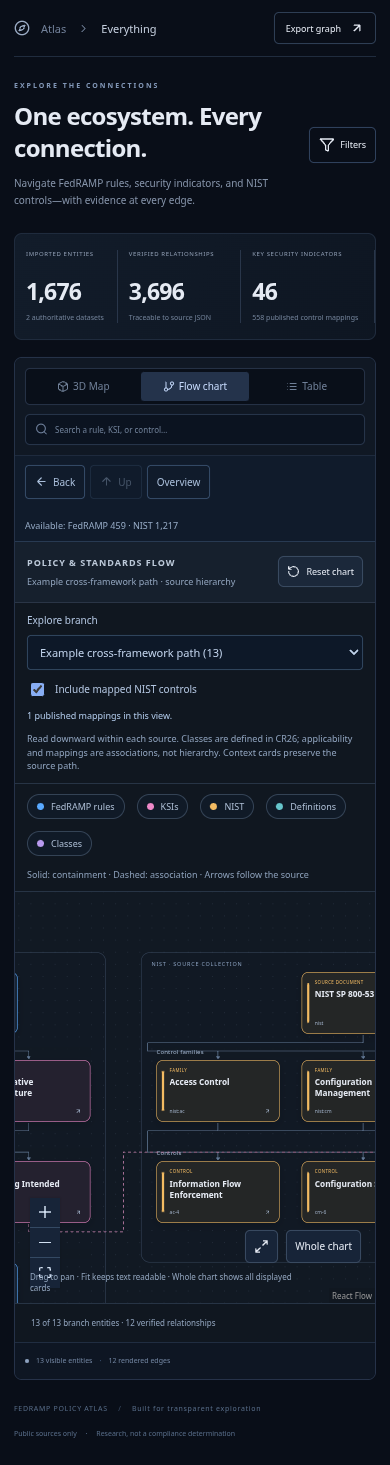
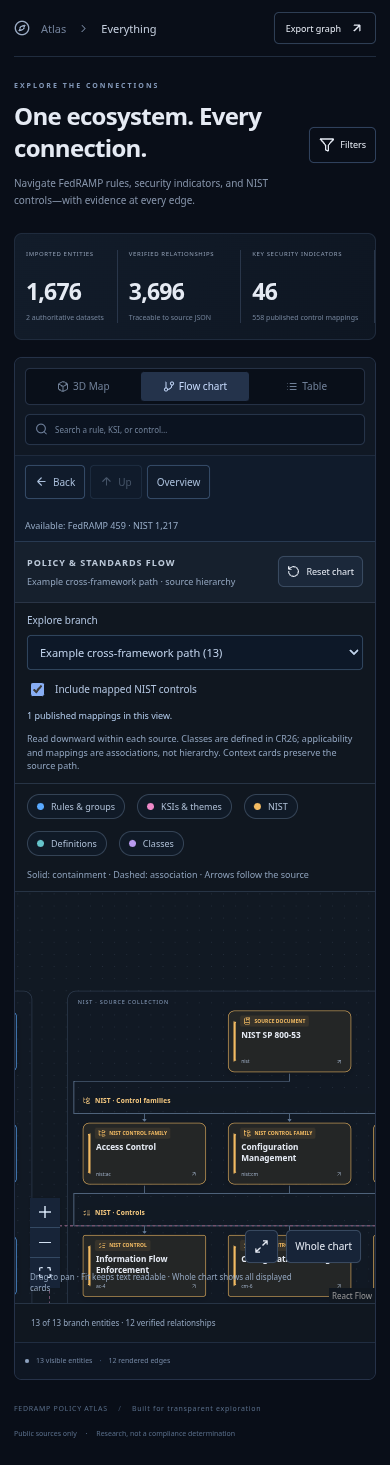
Separate flow headings from connectors and clarify entity types

diff --git a/src/components/FlowChart.tsx b/src/components/FlowChart.tsx
@@ -1,6 +1,6 @@
 import {useEffect,useMemo,useRef,useState,type RefObject,type CSSProperties} from 'react';
 import {ReactFlow,ReactFlowProvider,ViewportPortal,BaseEdge,EdgeLabelRenderer,Background,BackgroundVariant,Controls,Handle,Position,MarkerType,useReactFlow,type NodeProps,type Node,type Edge as FlowEdge,type EdgeProps} from '@xyflow/react';
-import {RotateCcw,Maximize2,ArrowUpRight,Focus} from 'lucide-react';
+import {RotateCcw,Maximize2,ArrowUpRight,Focus,FileText,Folder,ListTree,Layers,ShieldCheck,BookOpen,Award,BookMarked,FolderTree,ListChecks,ListPlus} from 'lucide-react';
 import '@xyflow/react/dist/style.css';
 import type {Entity,Edge} from '../data/types';
 import {entityColor} from '../graph/model';
@@ -11,9 +11,10 @@ import {relationshipNames} from '../graph/navigation';
 interface Props {contextIds:Set<string>;shown:number;viewReader:RefObject<ViewReader<ChartView>|null>;restoredView?:ChartView;branches:FlowBranch[];branch:string;mappings:boolean;onBranch:(id:string)=>void;onMappings:(value:boolean)=>void;onAll:()=>void;nodes:Entity[];edges:Edge[];total:number;selected:string;activeEdge:string;distances:Map<string,number>;depth:number;onSelect:(id:string)=>void;onEdge:(edge:Edge)=>void;onMore:()=>void;onReset:()=>void;reduced:boolean}
 type CardNode=Node<{entity:Entity;distance?:number;context:boolean;onSelect:(id:string)=>void},'entity'>;
 const ports=[['top',Position.Top],['bottom',Position.Bottom],['left',Position.Left],['right',Position.Right]] as const;
-function EntityCard({data,selected}:NodeProps<CardNode>){const n=data.entity;return <div className={'flow-entity '+(selected?'is-selected':'')+(data.context?' flow-context':'')} style={{'--entity-color':entityColor(n)} as CSSProperties}>
+const cardIdentity={source:{label:'Source document',Icon:BookMarked},class:{label:'Certification class',Icon:Award},ruleset:{label:'Ruleset',Icon:Folder},subset:{label:'Rule subset',Icon:ListTree},rule:{label:'FedRAMP rule',Icon:FileText},theme:{label:'KSI theme',Icon:Layers},ksi:{label:'Key Security Indicator',Icon:ShieldCheck},family:{label:'NIST control family',Icon:FolderTree},control:{label:'NIST control',Icon:ListChecks},enhancement:{label:'Control enhancement',Icon:ListPlus},definition:{label:'Definition',Icon:BookOpen}};
+function EntityCard({data,selected}:NodeProps<CardNode>){const n=data.entity,{label,Icon}=cardIdentity[n.kind];const note=data.context&&n.kind!=='source'?'Context':data.distance!==undefined&&data.distance>0?`${data.distance} link${data.distance===1?'':'s'} away`:'';return <div data-kind={n.kind} className={'flow-entity '+(selected?'is-selected':'')+(data.context?' flow-context':'')} style={{'--entity-color':entityColor(n)} as CSSProperties}>
  {ports.flatMap(([side,position])=>['source','target'].map(type=><Handle key={type+side} id={type+'-'+side} type={type as 'source'|'target'} position={position} style={{opacity:0}}/>))}
- <button className="nodrag nopan" title={`${n.title} · ${n.sourceVersion}`} aria-label={`Inspect ${n.sourceIdentifier??n.id}`} onClick={event=>{event.stopPropagation();data.onSelect(n.id);}}><small>{n.kind==='source'?'SOURCE DOCUMENT':n.kind==='class'?'CLASS · DEFINED IN CR26':n.kind.toUpperCase()}{data.context&&n.kind!=='source'?' · CONTEXT':data.distance!==undefined&&data.distance>0?` · ${data.distance} LINK${data.distance===1?'':'S'} AWAY`:''}</small><strong>{n.kind==='source'?(n.id==='nist'?'NIST SP 800-53':'FedRAMP 2026 · CR26'):n.title}</strong><span>{n.sourceIdentifier??n.id}<ArrowUpRight size={12}/></span></button>
+ <button className="nodrag nopan" title={`${label}: ${n.title} · ${n.sourceVersion}${note?' · '+note:''}`} aria-label={`Inspect ${n.sourceIdentifier??n.id}`} onClick={event=>{event.stopPropagation();data.onSelect(n.id);}}><div className="flow-card-type"><Icon size={14} aria-hidden="true"/><small>{label}</small></div><strong>{n.kind==='source'?(n.id==='nist'?'NIST SP 800-53':'FedRAMP 2026 · CR26'):n.title}</strong><span className="flow-card-footer"><span className="flow-card-id">{n.sourceIdentifier??n.id}</span>{note?<small className="flow-card-note">{note}</small>:<ArrowUpRight size={12}/>}</span></button>
  </div>;}
 const nodeTypes={entity:EntityCard};
 function EvidenceEdge(props:EdgeProps){
@@ -56,9 +57,9 @@ function Chart({contextIds,shown,viewReader,restoredView,branches,branch,mapping
  <div className="flow-browse"><label>Explore branch<select aria-label="Flow chart branch" value={branch} onChange={event=>onBranch(event.target.value)}>{!branches.some(b=>b.id===branch)&&<option value={branch}>Branch unavailable under these filters</option>}{branches.map(b=><option key={b.id} value={b.id}>{b.label} ({b.count})</option>)}</select></label><label><input type="checkbox" checked={mappings} onChange={event=>onMappings(event.target.checked)}/>Include mapped NIST controls</label>
  <small className="flow-mapping-status" role="status">{mappings?mappingCount?`${mappingCount} published mappings in this view.`:`No imported KSI-to-NIST mapping in this scope. Open a KSI${depth<3?' or increase connection levels':''}.`:'Mapped NIST controls are hidden. Both source documents remain available.'}</small>
  <small>Read downward within each source. Classes are defined in CR26; applicability and mappings are associations, not hierarchy. Context cards preserve the source path.</small></div>
- <div className="flow-legend"><span><i style={{background:'#59a9ff'}}/>FedRAMP rules</span><span><i style={{background:'#ee89c8'}}/>KSIs</span><span><i style={{background:'#f3bb62'}}/>NIST</span><span><i style={{background:'#66c5cc'}}/>Definitions</span><span><i style={{background:'#b99aef'}}/>Classes</span><span>Solid: containment · Dashed: association · Arrows follow the source</span></div>
+ <div className="flow-legend"><span><i style={{background:'#59a9ff'}}/>Rules &amp; groups</span><span><i style={{background:'#ee89c8'}}/>KSIs &amp; themes</span><span><i style={{background:'#f3bb62'}}/>NIST</span><span><i style={{background:'#66c5cc'}}/>Definitions</span><span><i style={{background:'#b99aef'}}/>Classes</span><span>Solid: containment · Dashed: association · Arrows follow the source</span></div>
  <div className="flow-surface" ref={surface}>{nodes.length?<ReactFlow<CardNode> nodes={flowNodes} edges={flowEdges} nodeTypes={nodeTypes} edgeTypes={edgeTypes} onNodeClick={(_event,node)=>onSelect(node.id)} nodesDraggable={false} nodesConnectable={false} edgesReconnectable={false} elementsSelectable={false} deleteKeyCode={null} onEdgeMouseEnter={(_event,e)=>setHoveredEdge(e.id)} onEdgeMouseLeave={()=>setHoveredEdge('')} onEdgeClick={(_event,e)=>onEdge(e.data!.edge as Edge)} minZoom={.08} maxZoom={1.8} panOnScroll zoomOnScroll={false} zoomOnPinch preventScrolling={false} proOptions={{hideAttribution:false}} ariaLabelConfig={{'controls.zoomIn.ariaLabel':'Zoom in flow chart','controls.zoomOut.ariaLabel':'Zoom out flow chart','controls.fitView.ariaLabel':'Fit readable chart'}}>
- <Background variant={BackgroundVariant.Dots} color="#354052" gap={22} size={1}/><ViewportPortal><div className="flow-hierarchy" aria-hidden="true">{arrangement.lanes.map(lane=><div key={lane.sourceId} className="flow-source-lane" data-source-lane={lane.sourceId} style={{left:lane.x,top:lane.y,width:lane.width,height:lane.height}}><span>{lane.sourceId==='fedramp'?'CR26 · SOURCE COLLECTION':'NIST · SOURCE COLLECTION'}</span></div>)}{arrangement.bands.map(band=><div className="flow-band" key={band.sourceId+band.label} style={{left:band.x,top:band.y,width:band.width}}>{band.label}</div>)}</div></ViewportPortal><Controls showInteractive={false} position="bottom-left" onFitView={fitReadable}/></ReactFlow>:<div className="flow-empty">No chart entities match your selection and filters. Adjust the filters or reset the chart.</div>}
+ <Background variant={BackgroundVariant.Dots} color="#354052" gap={22} size={1}/><ViewportPortal><div className="flow-hierarchy" aria-hidden="true">{arrangement.lanes.map(lane=><div key={lane.sourceId} className="flow-source-lane" data-source-lane={lane.sourceId} style={{left:lane.x,top:lane.y,width:lane.width,height:lane.height}}><span>{lane.sourceId==='fedramp'?'CR26 · SOURCE COLLECTION':'NIST · SOURCE COLLECTION'}</span></div>)}</div><div className="flow-section-headings" aria-hidden="true">{arrangement.bands.map(band=>{const {Icon}=cardIdentity[band.kind];return <div className="flow-band" data-kind={band.kind} key={band.sourceId+band.kind} style={{left:band.x,top:band.y,width:band.width,height:band.height}}><Icon size={14}/>{band.label}</div>;})}</div></ViewportPortal><Controls showInteractive={false} position="bottom-left" onFitView={fitReadable}/></ReactFlow>:<div className="flow-empty">No chart entities match your selection and filters. Adjust the filters or reset the chart.</div>}
  <div className="flow-help">Drag to pan · Fit keeps text readable · Whole chart shows all displayed cards</div><div className="flow-view-actions">{selected&&<button aria-label="Return to selected card" title="Return to selected card" onClick={centerSelection}><Focus size={15}/></button>}<button aria-label="Fit chart to view" title="Fit at readable scale; pan larger branches" onClick={fitReadable}><Maximize2 size={15}/></button><button aria-label="Show whole chart" title="Whole-chart overview; zoom in to read" onClick={()=>void api.fitView({padding:.12,maxZoom:1,duration:reduced?0:200})}>Whole chart</button></div></div>
  <div className="flow-chart-count"><span>{shown} of {total} {selected?'neighborhood':'branch'} entities{contextIds.size?` + ${contextIds.size} source/ancestor context`:''} · {edges.length} verified relationships</span>{shown<total&&<div className="flow-load"><button onClick={onMore}>Show 24 more</button><button onClick={onAll}>Show all {total}</button></div>}</div></div>;
 }

diff --git a/src/graph/flow-layout.ts b/src/graph/flow-layout.ts
@@ -1,33 +1,41 @@
 import type {Edge,Entity} from '../data/types';
 import {flowCard} from './flow';
-export interface FlowBand {sourceId:string;label:string;x:number;y:number;width:number}
+export interface FlowBand {sourceId:string;kind:Entity['kind'];label:string;x:number;y:number;width:number;height:number}
 export interface FlowLane {sourceId:string;x:number;y:number;width:number;height:number}
-const gap=40,rowGap=48,padding=28;
-const level=(n:Entity)=>n.kind==='source'?0:['class','ruleset','theme','family'].includes(n.kind)?1:['subset','ksi','control'].includes(n.kind)?2:n.kind==='definition'?4:3;
-const order:Record<string,number>={class:0,ruleset:1,theme:2,family:3,subset:4,ksi:5,control:6,rule:7,enhancement:8,definition:9,source:-1};
-function bandLabel(source:string,rank:number){return source==='nist'?({1:'Control families',2:'Controls',3:'Control enhancements',4:'References'}[rank]??'Source'):({1:'Rulesets · KSI themes',2:'Rule subsets · KSIs',3:'Individual rules',4:'Definitions referenced in this view'}[rank]??'Source');}
-/** Compact source-origin lanes, recomputed from the visible records only.
- * Position expresses document organization, never an invented verified relationship.
- * Both source documents share rank zero; definitions and applicability do not rerank them.
+const gap=40,rowGap=48,padding=28,headingSpace=52,sectionGap=40;
+const sections:{kind:Entity['kind'];label:string}[]=[
+ {kind:'class',label:'Certification classes · defined in CR26'},
+ {kind:'ruleset',label:'Rules · Rulesets'},
+ {kind:'subset',label:'Rules · Rule subsets'},
+ {kind:'rule',label:'Rules · Individual rules'},
+ {kind:'theme',label:'KSIs · Security themes'},
+ {kind:'ksi',label:'KSIs · Key Security Indicators'},
+ {kind:'family',label:'NIST · Control families'},
+ {kind:'control',label:'NIST · Controls'},
+ {kind:'enhancement',label:'NIST · Control enhancements'},
+ {kind:'definition',label:'Definitions referenced in this view'},
+];
+/** Source groups and type sections are presentation, never invented relationships.
+ * Heading rows have their own space above connector entry/exit tracks.
  */
 export function flowArrangement(nodes:Entity[]){
  const positions=new Map<string,{x:number;y:number}>(),lanes:FlowLane[]=[],bands:FlowBand[]=[];
  const sources=[...new Set(nodes.map(n=>n.sourceId))].sort((a,b)=>a==='fedramp'?-1:b==='fedramp'?1:a.localeCompare(b));
  let x=0;
  for(const source of sources){
-  const members=nodes.filter(n=>n.sourceId===source),columns=members.filter(n=>n.kind==='class').length>3?4:Math.min(3,Math.max(1,...[1,2,3,4].map(rank=>members.filter(n=>level(n)===rank).length)));
+  const members=nodes.filter(n=>n.sourceId===source),columns=members.filter(n=>n.kind==='class').length>3?4:Math.min(3,Math.max(1,...sections.map(section=>members.filter(n=>n.kind===section.kind).length)));
   const laneWidth=columns*flowCard.width+(columns-1)*gap+padding*2;
   const root=members.find(n=>n.kind==='source');
   if(root)positions.set(root.id,{x:x+(laneWidth-flowCard.width)/2,y:48});
-  let y=root?48+flowCard.height+rowGap:48;
-  const sections=[{label:'Certification classes · defined in CR26',items:members.filter(n=>n.kind==='class')},...[1,2,3,4].map(rank=>({label:bandLabel(source,rank),items:members.filter(n=>level(n)===rank&&n.kind!=='class')}))];
+  let y=root?48+flowCard.height+sectionGap:48;
   for(const section of sections){
-   const items=section.items.sort((a,b)=>order[a.kind]-order[b.kind]||a.id.localeCompare(b.id));
+   const items=members.filter(n=>n.kind===section.kind).sort((a,b)=>a.id.localeCompare(b.id));
    if(!items.length)continue;
-   bands.push({sourceId:source,label:section.label,x:x+padding,y:y-24,width:laneWidth-padding*2});
-   const sectionColumns=items[0].kind==='class'?Math.min(4,items.length):Math.min(3,items.length),offset=(laneWidth-sectionColumns*flowCard.width-(sectionColumns-1)*gap)/2;
+   bands.push({sourceId:source,kind:section.kind,label:section.label,x:x+padding,y,width:laneWidth-padding*2,height:24});
+   y+=headingSpace;
+   const sectionColumns=Math.min(section.kind==='class'?4:3,items.length),offset=(laneWidth-sectionColumns*flowCard.width-(sectionColumns-1)*gap)/2;
    items.forEach((n,i)=>positions.set(n.id,{x:x+offset+(i%sectionColumns)*(flowCard.width+gap),y:y+Math.floor(i/sectionColumns)*(flowCard.height+rowGap)}));
-   y+=Math.ceil(items.length/sectionColumns)*(flowCard.height+rowGap)+24;
+   y+=(Math.ceil(items.length/sectionColumns)-1)*(flowCard.height+rowGap)+flowCard.height+sectionGap;
   }
   lanes.push({sourceId:source,x,y:12,width:laneWidth,height:Math.max(180,y-12)});x+=laneWidth+64;
  }

diff --git a/src/style.css b/src/style.css
@@ -19,3 +19,7 @@
 .journey-bar{display:flex;align-items:center;flex-wrap:wrap;gap:10px;padding:10px 14px;background:#101b2b;border-bottom:1px solid #283a52;color:#a8bdd9;font-size:10px}.journey-actions{display:flex;gap:5px}.journey-actions button,.scope-summary button{display:flex;align-items:center;gap:5px;border:1px solid #354b68;border-radius:4px;padding:7px 9px}.journey-trail{display:flex;align-items:center;gap:4px;min-width:0;flex-wrap:wrap}.journey-trail button{display:flex;align-items:center;gap:4px;font-size:9px;color:#a9c8f1}.journey-trail strong{font-size:10px;max-width:220px;overflow:hidden;text-overflow:ellipsis;white-space:nowrap}.scope-summary{margin-left:auto;display:flex;align-items:center;gap:10px;font-size:9px;color:#94a9c4}.graph-labels.adaptive-labels .map-label.context{opacity:.65}@media(max-width:700px){.journey-bar{padding:9px 10px}.scope-summary{margin-left:0;width:100%}.journey-trail{width:100%}.journey-actions button{min-height:34px}}
 .flow-hierarchy{pointer-events:none;position:absolute;inset:0;z-index:-1}.flow-source-lane{position:absolute;border:1px solid #344358;border-radius:16px;background:#1b293615}.flow-source-lane>span{position:absolute;top:12px;left:18px;font-size:10px;letter-spacing:1.4px;color:#879dbb}.flow-band{position:absolute;font-size:11px;letter-spacing:.3px;color:#a5b7d0;line-height:18px;background:#111923de}.flow-context:not(.is-selected){border-style:dashed}.flow-view-actions{position:absolute;bottom:40px;right:14px;display:flex;gap:8px}.flow-view-actions button{border:1px solid #3a4b62;background:#172438;border-radius:5px;padding:8px;display:flex}.flow-mapping-status{color:#afc8e8!important}.flow-chart .react-flow__edges{z-index:0}.flow-chart .react-flow__nodes{z-index:1}
 .flow-edge-caption{position:absolute;font-size:11px;color:#d3e0f1;background:#111b2af5;border:1px solid #3c506c;border-radius:4px;padding:4px 7px;pointer-events:none;white-space:nowrap}.flow-source-lane{background:#1b293608}.flow-view-actions button{font-size:10px}
+
+/* Section headings occupy a dedicated row above connector tracks. */
+.flow-section-headings{position:absolute;inset:0;pointer-events:none;z-index:2}.flow-band{display:flex;align-items:center;gap:8px;font-size:12px;font-weight:600;line-height:24px;background:#111923;color:#9fc7f4;letter-spacing:.2px}.flow-band[data-kind="theme"],.flow-band[data-kind="ksi"]{color:#f2a1d6}.flow-band[data-kind="family"],.flow-band[data-kind="control"],.flow-band[data-kind="enhancement"]{color:#f3c77f}.flow-band[data-kind="definition"]{color:#8bd4da}.flow-band[data-kind="class"]{color:#c8b0f2}
+.flow-entity .flow-card-type{display:flex;align-items:center;gap:6px;align-self:flex-start;max-width:100%;padding:3px 6px;margin:-4px 0 -2px -2px;background:color-mix(in srgb,var(--entity-color) 17%,#101720);border-radius:4px;color:var(--entity-color)}.flow-entity .flow-card-type small{font-size:9px;font-weight:700;line-height:14px;letter-spacing:.15px;text-transform:uppercase}.flow-card-type svg{flex-shrink:0}.flow-entity[data-kind="rule"],.flow-entity[data-kind="control"]{border-radius:5px}.flow-entity[data-kind="ksi"]{border-radius:18px;border-width:2px;background:color-mix(in srgb,var(--entity-color) 13%,#101720)}.flow-entity[data-kind="theme"]{border-radius:18px}.flow-entity[data-kind="ksi"] .flow-card-type,.flow-entity[data-kind="theme"] .flow-card-type{border-radius:10px}.flow-entity.is-selected{outline-color:var(--entity-color)}.flow-entity .flow-card-footer{width:100%;gap:6px;margin-top:auto}.flow-entity .flow-card-id{display:block;margin:0;overflow:hidden;text-overflow:ellipsis;white-space:nowrap;font-size:9px}.flow-entity .flow-card-note{flex-shrink:0;font-size:8px;letter-spacing:0;color:#b5c2d5}.flow-card-footer>svg{flex-shrink:0}

diff --git a/docs/flow-chart.md b/docs/flow-chart.md
@@ -4,7 +4,7 @@ The explorer offers 3D Map, Flow chart and Table. Selection, source filters and 
 
 ## Source hierarchy and association
 
-FedRAMP 2026 · CR26 and NIST SP 800-53 are peer source documents. Each source has a separate bounded group. Within FedRAMP, classes occupy a source-defined section, followed by rulesets/themes, subsets/KSIs, individual rules and referenced definitions. NIST has families, controls and enhancements. Rows express source organization, not shortest-path distance. Card badges explicitly say “links away” for connection depth.
+FedRAMP 2026 · CR26 and NIST SP 800-53 are peer source documents. Each source has a separate bounded group. Within FedRAMP, classes occupy a source-defined section, followed by separate ruleset, rule-subset, individual-rule, KSI-theme, KSI and definition sections. Headings describe only the types actually present. Each heading has reserved space above connector entry tracks. NIST has families, controls and enhancements. Rows express source organization, not shortest-path distance. Card badges explicitly say “links away” for connection depth.
 
 Classes are named in CR26's Certification Class definition. Their placement beneath CR26 is source-origin navigation; no synthetic source-to-class containment link is added. Rules retain their original APPLIES_TO arrows into classes. Solid connectors are verified containment; dashed connectors are associations, including published KSI mappings and definitions. Every rendered connector retains its original endpoints, direction, revision and locator. See the [source audit](qa-flow-structure-2026-10-30/source-review.md).
 
@@ -31,3 +31,9 @@ The status reports actual published mappings currently displayed, or explains th
 [The October 30 structure review](qa-flow-structure-2026-10-30/REPORT.md) records reproduced failures, source verification, independent mixed-session testing, desktop/tablet/mobile screenshots and remaining limits. Regression commands are `npm run test:flow:e2e`, `npm run test:full-flow:e2e` and `npm run test:journey:e2e`, with `ATLAS_URL` pointed at the local production preview. The independent review scripts are retained alongside their evidence.
 
 React Flow loads only when this presentation opens. No new source data, external service or paid integration was added. Coverage remains 1,676 entities, 3,696 verified relationships and 558 published KSI mappings. The existing main Three.js bundle-size advisory remains.
+
+## Heading clearance and card identity — October 30, 2026
+
+Removed the combined “Rulesets · KSI themes” and “Rule subsets · KSIs” headings. Rule and KSI branches now have separate, color-coded headings with type icons. Card badges spell out the entity type; rules use a document icon and squared corners, while KSIs use a shield icon and rounded pink cards. Groups, definitions, classes and NIST records each have their own type icon. Selection outlines retain the entity color, so selecting a rule does not give it the pink KSI outline. Context/distance is secondary footer text.
+
+Headings occupy dedicated 24px rows with space before the incoming connector track; they also render above the edge layer. This corrects actual connector geometry rather than only hiding lines with a text background. The browser regression checks every rendered orthogonal segment against every heading rectangle in seven overview/drill-down/mobile states. See [results and screenshots](qa-flow-labels-2026-10-30/README.md).

diff --git a/README.md b/README.md
@@ -41,6 +41,7 @@ The browser suite captures desktop and mobile screenshots in `docs/screenshots/`
 - Use **Back** above the diagram (or browser Back/Forward) to restore previous selections, filters, branch scope and saved view. **Up** follows a verified containment parent; the containment breadcrumbs are clickable. **Overview** exits inspection. The bottom **Camera back** control only reverses camera movement. **Everything** clears retained selection/focus and filters, restoring both publisher hubs.
 - The 3D map retains eligible context points while inspecting or focusing a neighborhood. Unrelated points and source/group labels are dimmed and remain clickable; explicit layer/class filters still restrict availability. The available-source counts and **Clear filters** show how to recover a restricted scope.
 - Flow charts use compact source groups recomputed from the current scope. **FedRAMP 2026 · CR26** and **NIST SP 800-53** are peer source cards. Certification classes appear beneath CR26 as source-defined context; their verified definition/applicability links remain distinct from containment. Back, Up and Overview preserve a fluid return path.
+- Flow sections separate rulesets, rule subsets, individual rules, KSI themes and KSIs. Headings have reserved space clear of connectors. Cards combine explicit type badges and icons with shape/color: squared blue rules, rounded pink KSIs, and amber NIST controls.
 - The flow chart covers **all 459 imported FedRAMP entities**, including all 17 rulesets, 10 KSI themes, classes and definitions. A NIST branch also exposes the imported catalog. Charts start with 24 primary entities, plus clearly counted source/ancestor context; **Show 24 more** and **Show all** expand the scope. **Fit** keeps cards readable; **Whole chart** shows the complete loaded diagram. Pan to explore larger branches. The full FedRAMP scope has 1,922 internal verified links.
 - **Include mapped NIST controls** works before and after card selection, enables the NIST layer when requested, and constrains neighborhood traversal when unchecked. Status text explains whether the current scope contains imported mappings. Select a card for one/two/three connection levels or a connector for pinned evidence. Branch/mapping preferences are shareable as `?mode=flow&branch=theme:CNA&mapped=1`. Reset returns to the chosen branch. Full coverage means the pinned Consolidated Rules dataset, not the entire legal/policy ecosystem. See the [flow structure review](docs/qa-flow-structure-2026-10-30/REPORT.md).
 - Drag to pan by default. Choose **Orbit** for rotation, or right-drag to rotate in Pan mode. Scroll toward the pointer or use +/- to zoom. Click points/labels to inspect without moving the camera; search fits the selected neighborhood. Use **Fit connections**, **Back**, and **Fit all** to frame the visible field. **Reset view** restores the starting orientation, center, zoom, and Pan mode.

diff --git a/docs/progress-report.md b/docs/progress-report.md
@@ -120,3 +120,9 @@ The mapping toggle works during selection and enables the NIST layer when reques
 Validation: 71 unit/integration tests passed; the 21 affected flow/journey tests passed again after the source-context correction. Lint, TypeScript and production Pages build passed. Flow 17, full-coverage 11, return-navigation 11 and shared-app 18 browser checks passed. Independent functional review passed 26 checks; UX review passed 16 groups plus targeted definitions and resize retests. Two independent testers exercised all four classes across three depths, repeated mapping changes, source/definition/KSI/NIST drill-downs, Back/Forward, keyboard and pointer evidence, 20x/class/layer combinations, and desktop/tablet/mobile layouts. Their exact build coverage and evidence are linked in the review. A fixed 750ms resize assertion observed an unfinished animation after software-rendered 3D journeys; it now waits for the actual selected-card bounds with a 5s deadline, retaining the same final geometry assertion. Independent resize reproductions also passed.
 
 The pinned source graph is unchanged: 1,676 entities, 3,696 verified relationships, 558 published KSI mappings. Dense shared edge gutters and mobile toolbar placement remain recorded improvements. Tests used local Chromium 154, not branded Chrome; live Pages browser access remains blocked by the environment proxy. Physical-device, other-engine and exhaustive assistive-technology validation remain open. The existing main-bundle-size advisory remains.
+
+## Clear flow headings and entity identities — October 30, 2026
+
+Corrected section headings that overlapped incoming connectors. Headings now occupy reserved rows, with routing tracks below and a foreground label layer. Split misleading combined rule/KSI headings into separate, accurately named sections. Added explicit card type badges and icons, squared blue rule cards, rounded pink KSI cards and entity-colored selection outlines. Context and connection distance remain secondary footer text. Source records and verified relationships are unchanged.
+
+Validation: 71 automated tests, lint, TypeScript and production build pass. A new seven-state browser regression measures all rendered connector segments against heading bounds and checks type labels/icons/colors/shapes; no intersections or browser exceptions occurred. Desktop and mobile screenshots are in [the visual correction report](qa-flow-labels-2026-10-30/README.md).

diff --git a/docs/qa-flow-labels-2026-10-30/README.md b/docs/qa-flow-labels-2026-10-30/README.md
@@ -1,0 +1,18 @@
+# Heading clearance and entity types
+
+The previous headings occupied the incoming connector track and rendered behind the SVG edges. Combined labels also named KSIs in views containing only rules. The correction reserves a separate heading row, places connector tracks below it, and splits rulesets, subsets, rules, KSI themes and KSIs into accurately named sections.
+
+Card identity now uses text, icons, color and shape together. “FedRAMP rule” has a document icon and squared blue card; “Key Security Indicator” has a shield icon and rounded pink card. Grouping cards, NIST records, classes and definitions have distinct type labels/icons. The selected outline follows its entity color. Context/distance remains visible as secondary footer text. Original data, source revisions, edge endpoints and provenance remain unchanged.
+
+`npm run test:flow-labels:e2e` checks actual rendered SVG geometry against DOM heading rectangles, including offscreen headings, in seven states. It verifies that rule/KSI cards have different labels, shapes and colors, all cards have type icons, and headings name types present in the current view. All seven cases passed with zero connector/heading intersections or uncaught errors. Mobile has no document overflow. Screenshots were inspected for heading separation and card identity.
+
+- [Mixed rule/KSI source overview](mixed-rule-ksi-overview.png)
+- [Class B drill-down](class-b-drilldown.png)
+- [Rule drill-down](rule-drilldown.png)
+- [KSI with NIST mappings](ksi-with-mappings.png)
+- [FedRAMP source](fedramp-source.png)
+- [NIST control](nist-control.png)
+- [Mobile KSI](mobile-ksi.png)
+- [Machine-readable results](results.json)
+
+The local production build passed 71 unit/integration tests, lint, TypeScript and build checks. Existing flow and return-navigation browser suites also exercise the changed layout. Tests use Chromium 154 at the Pages project path. Live Pages browser access is restricted in this environment. Dense edge overlap, offscreen context and mobile toolbar placement remain previously documented limitations.
